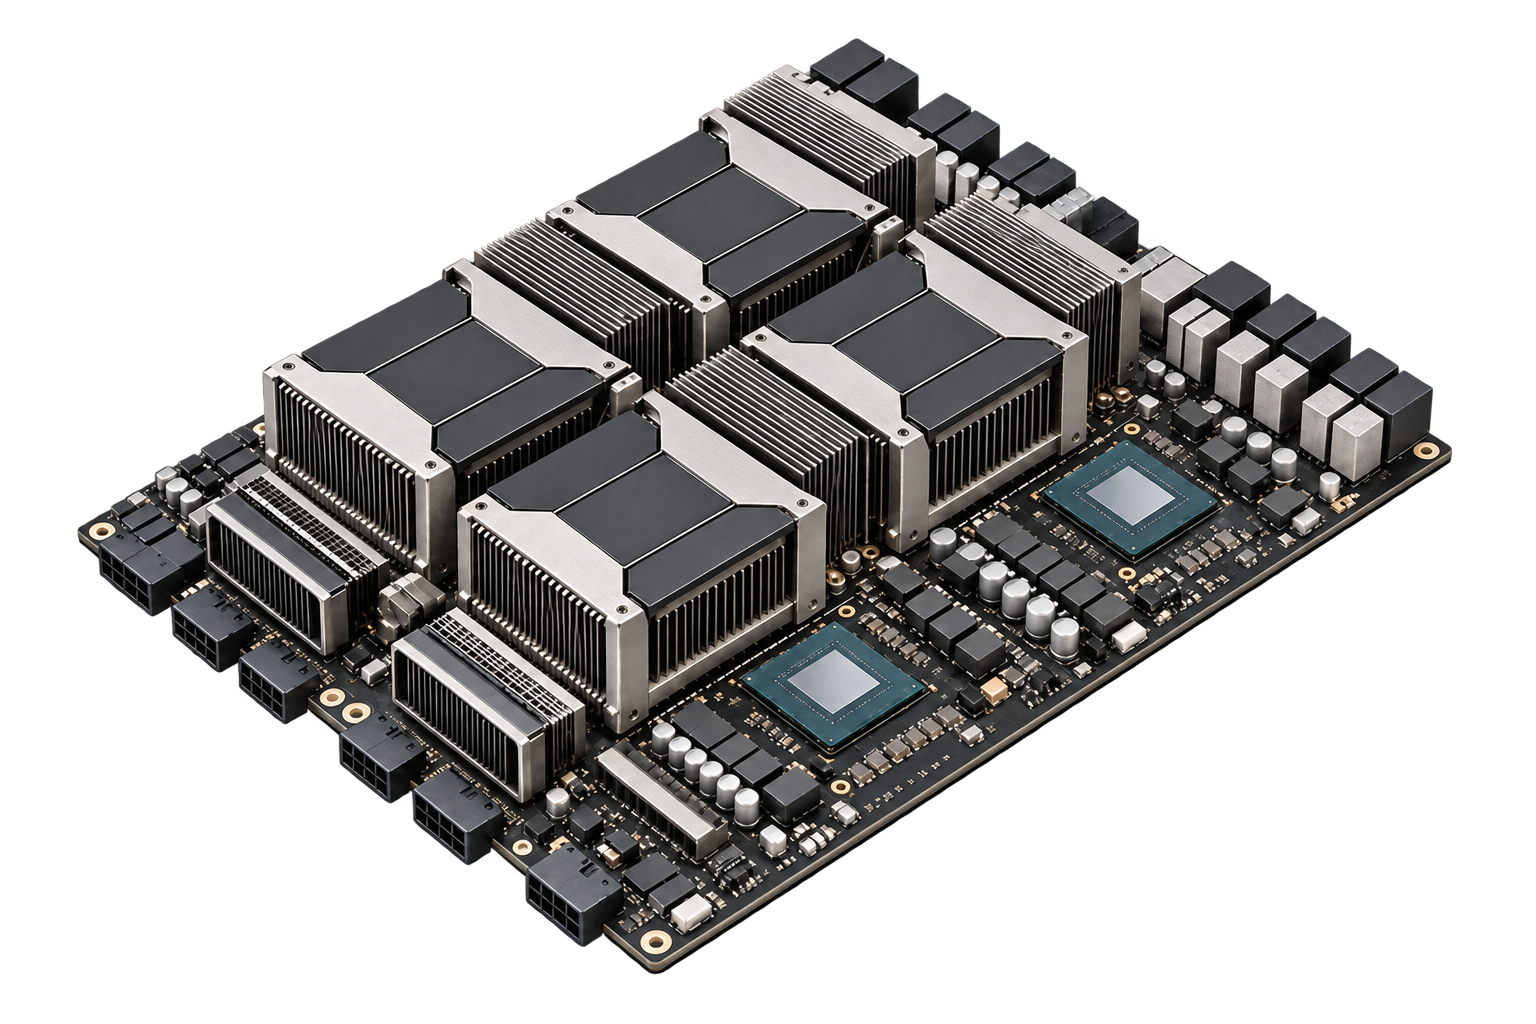
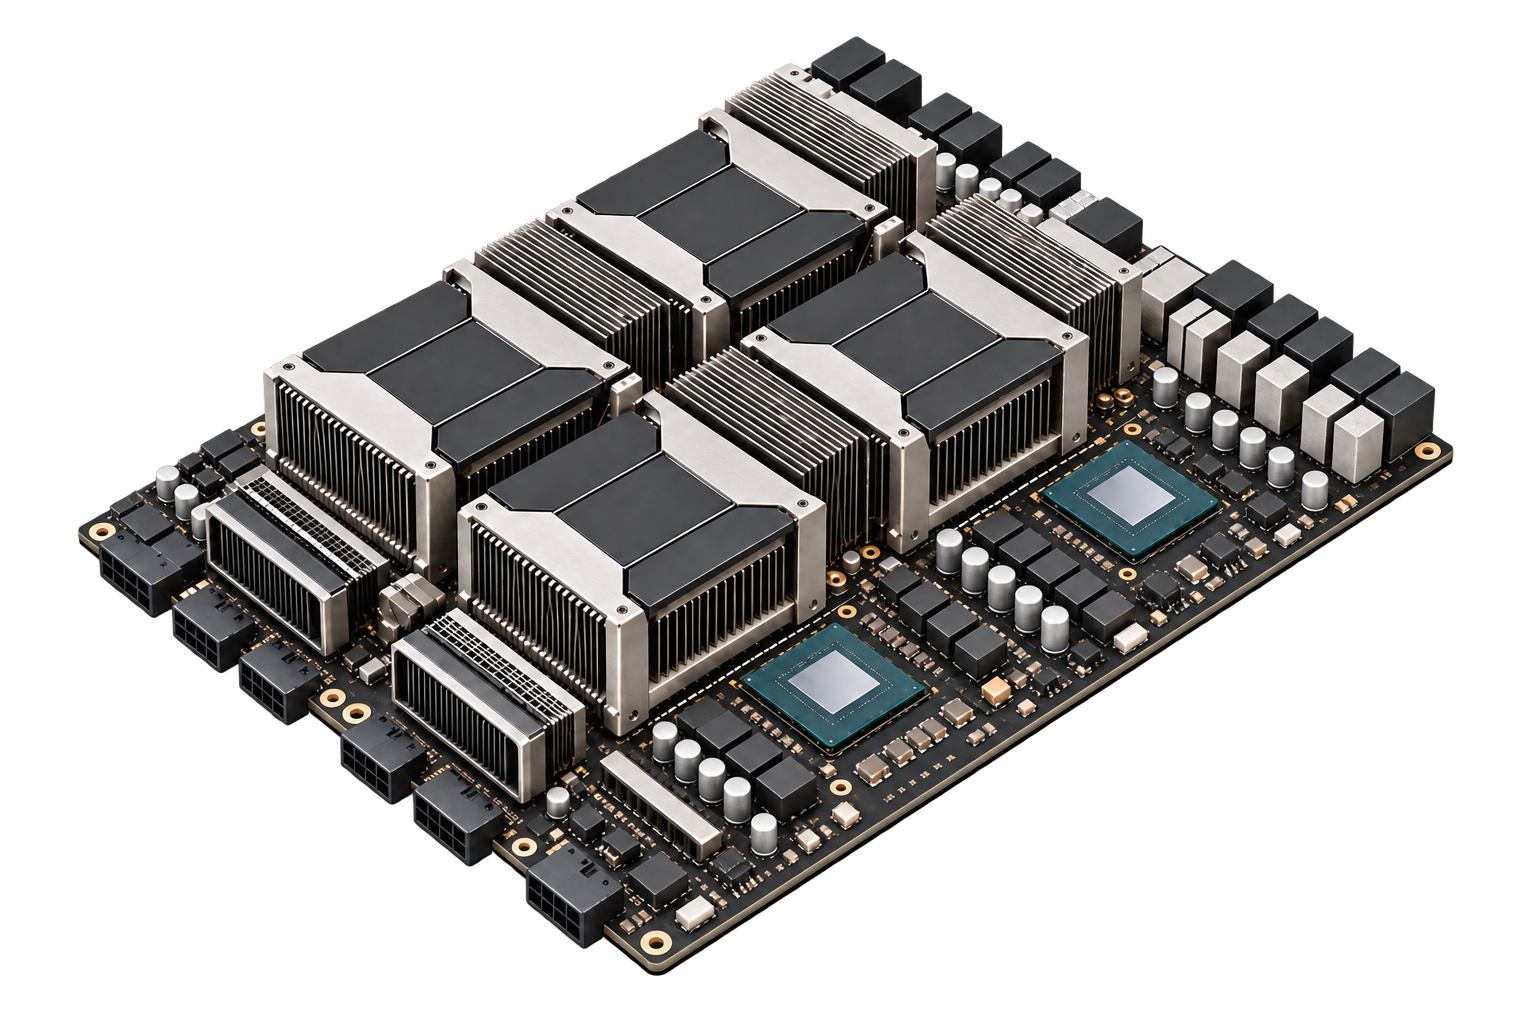
Fix: refine GPU hardware details and align chip highlights

diff --git a/src/components/catalogue/GpuFigure/gpu-hardware-layout.ts b/src/components/catalogue/GpuFigure/gpu-hardware-layout.ts
@@ -1,0 +1,30 @@
+type Point = readonly [number, number];
+
+const REFLECTION_SCALE = 0.62;
+
+// Source-image pixels. Recalibrate these faces when the platform artwork changes.
+const dieFaces: readonly (readonly Point[])[] = [
+  [
+    [1092, 493],
+    [1128, 471],
+    [1169, 497],
+    [1132, 520],
+  ],
+  [
+    [793, 680],
+    [835, 655],
+    [874, 683],
+    [833, 708],
+  ],
+];
+
+export const gpuDieHighlights = dieFaces.map((face) => {
+  const center = [0, 1].map(
+    (axis) => face.reduce((sum, point) => sum + point[axis], 0) / face.length,
+  );
+  const reflection = face.map(([x, y]): Point => [
+    Number((center[0] + (x - center[0]) * REFLECTION_SCALE).toFixed(2)),
+    Number((center[1] + (y - center[1]) * REFLECTION_SCALE).toFixed(2)),
+  ]);
+  return { face, reflection };
+});
